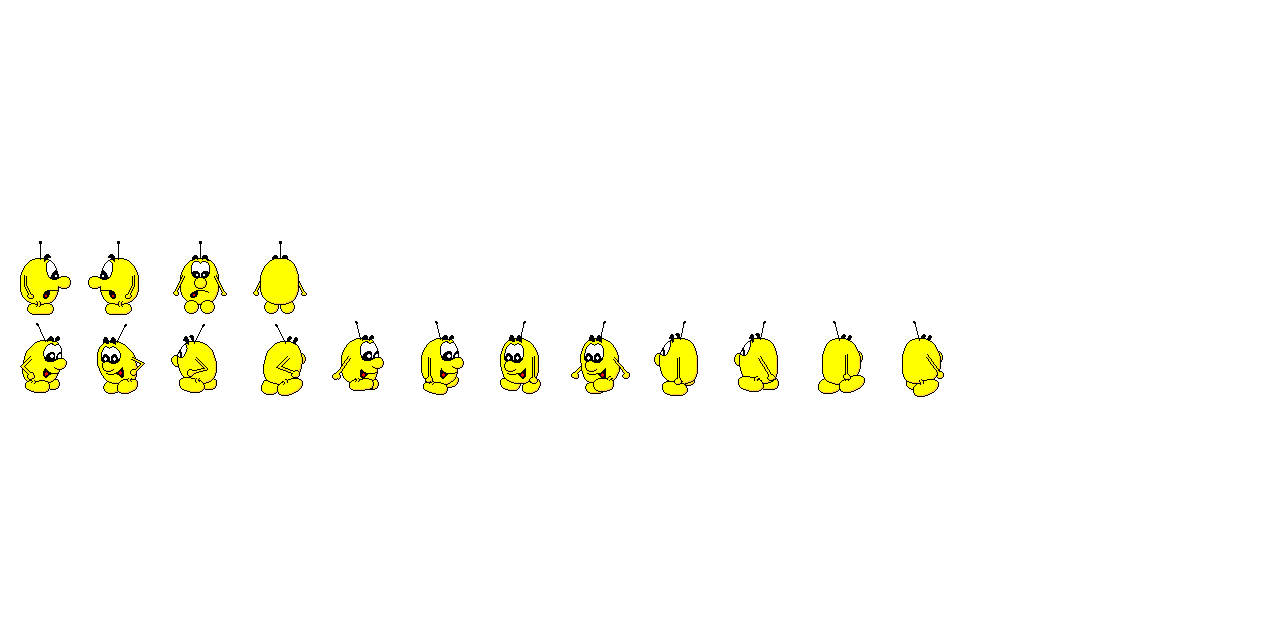
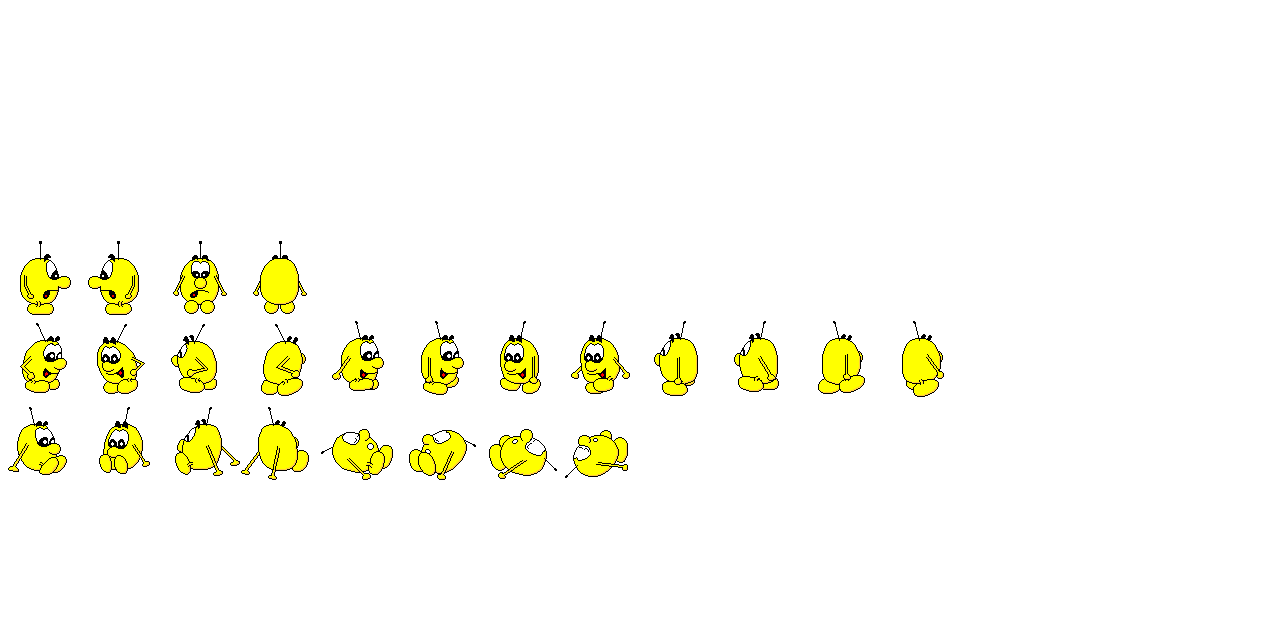
Add more missing sprites for the remote blupi

Changed region(s): [[0.0, 0.6562, 0.5, 0.75]]

diff --git a/src/move.c b/src/move.c
@@ -4015,6 +4015,9 @@ MoveNext (char event, Pt pmouse)
     if (toto[i].joueur && (toto[i].icon >= 48 && toto[i].icon <= 51))
       toto[i].icon += 512; /* icône avec antenne */
 
+    if (toto[i].joueur && (toto[i].icon >= 64 && toto[i].icon <= 71))
+      toto[i].icon += 512 + 16; /* icône avec antenne */
+
     if (toto[i].tank != 0)
     {
       orientation = GetOrientation (toto[i].action);
